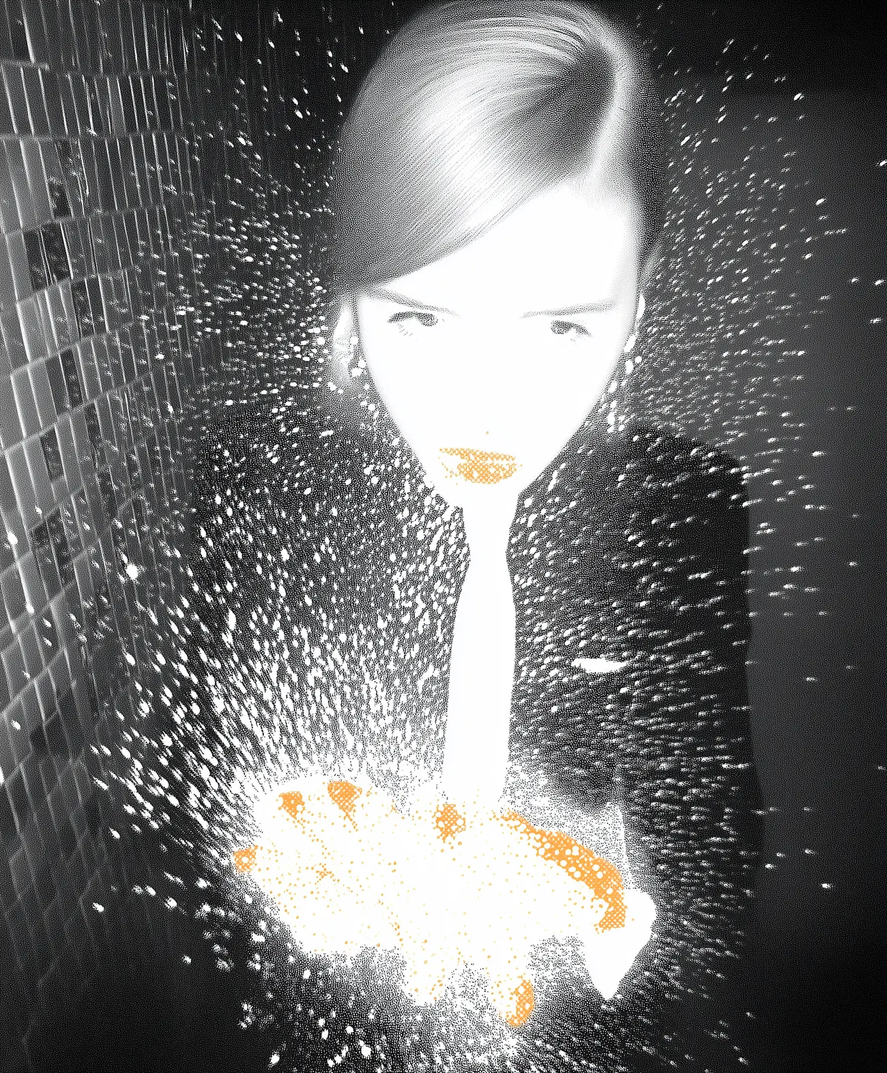
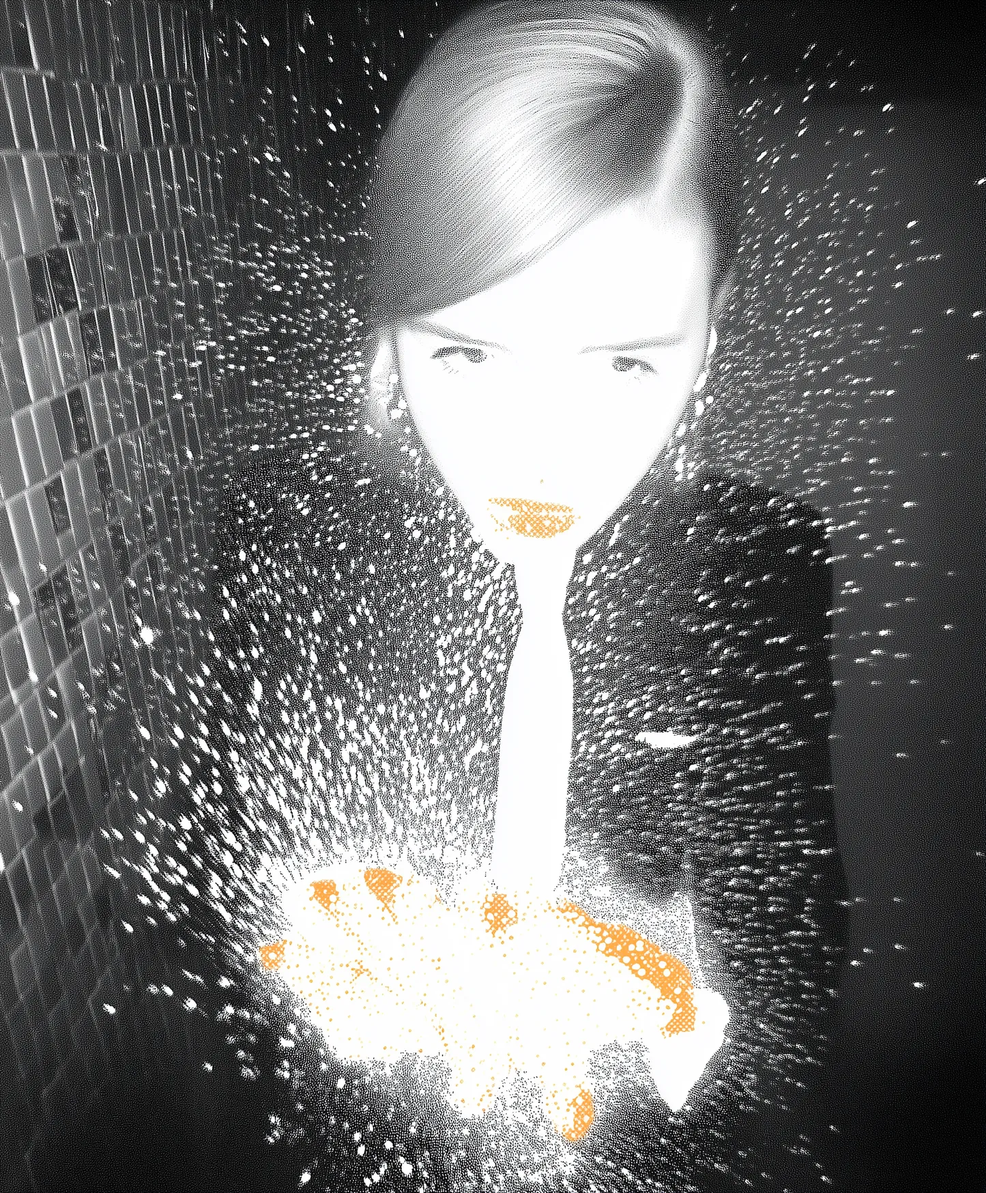
Doc pictures as web copies under 1 MB; masters stay local
The doc's 8 large originals (43 MB) leave git. Seven come back as WebP sized to how large each one
shows (twice its box on a 1440 px screen, or its printed box at 300 dpi), 1.4 MB in all; feed1.png
was unused. documents/web_copies.py holds the rule and remakes them from source/doc_masters/,
which is local only. The hero is now 1445 px wide (was 1300), still under 1 MB.

diff --git a/documents/Vanitas Veritas - Web.dc.html b/documents/Vanitas Veritas - Web.dc.html
@@ -169,7 +169,7 @@
 
   <!-- ============ HERO ============ -->
   <section data-screen-label="Hero" style="position:relative; height:100vh; min-height:640px; overflow:hidden;">
-    <img src="assets/self_portrait.png" alt="self-portrait" style="position:absolute; inset:0; width:100%; height:100%; object-fit:cover; object-position:50% 30%;">
+    <img src="assets/self_portrait.webp" alt="self-portrait" style="position:absolute; inset:0; width:100%; height:100%; object-fit:cover; object-position:50% 30%;">
     <div style="position:absolute; inset:0; background:linear-gradient(180deg, rgba(8,7,6,.62) 0%, rgba(8,7,6,.34) 38%, rgba(8,7,6,.55) 70%, rgba(8,7,6,.96) 100%);"></div>
     <div style="position:absolute; inset:0; box-shadow:inset 0 0 220px 50px rgba(0,0,0,.6);"></div>
     <!-- homo bulla: gold bubbles rise from the gold in the hands (gold_bubbles.js) -->
@@ -219,7 +219,7 @@
           <div class="vv-vanitas" style="position:absolute; inset:0; transform:translateX(-150px);">
           <!-- print (the mirror), to scale -->
           <div style="position:absolute; left:352px; top:26px; width:130px; height:156px; border:1px solid rgba(236,231,221,.42); overflow:hidden; background:#26292b; box-shadow:0 7px 22px rgba(0,0,0,.55);">
-            <img src="assets/self_h.png" style="position:absolute; inset:0; width:100%; height:100%; object-fit:cover; opacity:.85; object-position:50% 26%;">
+            <img src="assets/self_h.webp" style="position:absolute; inset:0; width:100%; height:100%; object-fit:cover; opacity:.85; object-position:50% 26%;">
             <div style="position:absolute; inset:0; background:linear-gradient(122deg, rgba(235,238,240,.5) 0%, rgba(150,154,157,.06) 32%, rgba(216,220,223,.3) 55%, rgba(70,74,77,.12) 100%);"></div>
             <div style="position:absolute; top:-26px; left:24px; width:28px; height:214px; background:rgba(255,255,255,.2); transform:rotate(18deg); filter:blur(4px);"></div>
           </div>
@@ -348,7 +348,7 @@
       </div>
       <div class="vv-steps">
       
-      <div data-reveal class="vv-row vv-loop vv-in"><div class="vv-loc"><svg viewBox="0 0 64 50" width="64" height="50" aria-hidden="true" style="display:block; overflow:visible;"><rect x="3" y="18" width="12" height="14" rx="1.5" fill="#F0ECE4"/><path d="M17 25 h8 m-3 -3 l3 3 l-3 3" fill="none" stroke="#F0ECE4" stroke-width="1.4"/><rect x="27" y="21" width="10" height="8" rx="1.5" fill="none" stroke="#F0ECE4" stroke-width="1.4"/><path d="M39 25 h8 m-3 -3 l3 3 l-3 3" fill="none" stroke="#5E5950" stroke-width="1.4"/><circle cx="52" cy="14" r="2.2" fill="#5E5950"/><circle cx="59" cy="20" r="2.2" fill="#5E5950"/><circle cx="52" cy="25" r="2.2" fill="#5E5950"/><circle cx="59" cy="31" r="2.2" fill="#5E5950"/><circle cx="52" cy="36" r="2.2" fill="#5E5950"/></svg></div><div class="vv-body"><div style="display:flex; align-items:baseline; gap:12px;"><span style="font-family:'Bricolage Grotesque',sans-serif; font-weight:600; font-size:34px; line-height:1; color:#5E5950;">01</span><span style="font-family:'Bricolage Grotesque',sans-serif; font-weight:600; font-size:26px; line-height:1.1; color:#F0ECE4;">genre</span></div><div style="margin-top:8px; font-family:'Space Grotesk',sans-serif; font-size:14px; line-height:1.5; color:#8A8378;">Midjourney <span data-gloss="sref" style="border-bottom:1px dotted rgba(236,231,221,.45);">style reference</span>, made by hand from vanitas paintings, 1630 to now</div><div class="vv-media"><div class="vv-six" style="display:grid; grid-template-columns:repeat(6,minmax(0,1fr)); gap:14px 8px;"><figure style="margin:0;"><div style="aspect-ratio:4/3; overflow:hidden; background:#000;"><img loading="lazy" src="assets/ref1_pereda.jpg" data-lbgroup="ref" data-lbitem="assets/ref1_pereda.jpg" data-cap="Antonio de Pereda, Allegory of Vanity, c.1636, KHM Vienna" style="width:100%;height:100%;object-fit:cover;"></div><figcaption style="margin-top:6px; font-family:'Space Grotesk',sans-serif; font-size:11.5px; line-height:1.35; color:#8A8378;"><span style="color:#ECE7DD;">Allegory of Vanity</span><br>Antonio de Pereda, c.1636</figcaption></figure><figure style="margin:0;"><div style="aspect-ratio:4/3; overflow:hidden; background:#000;"><img loading="lazy" src="assets/ref2_steenwijck.jpg" data-lbgroup="ref" data-lbitem="assets/ref2_steenwijck.jpg" data-cap="Harmen Steenwijck, Allegory of the Vanities of Human Life, c.1640, National Gallery" style="width:100%;height:100%;object-fit:cover;"></div><figcaption style="margin-top:6px; font-family:'Space Grotesk',sans-serif; font-size:11.5px; line-height:1.35; color:#8A8378;"><span style="color:#ECE7DD;">Allegory of the Vanities of Human Life</span><br>Harmen Steenwijck, c.1640</figcaption></figure><figure style="margin:0;"><div style="aspect-ratio:4/3; overflow:hidden; background:#000;"><img loading="lazy" src="assets/ref3_oosterwijck.jpg" data-lbgroup="ref" data-lbitem="assets/ref3_oosterwijck.jpg" data-cap="Maria van Oosterwijck, Vanitas Still Life, c. 1675, Rijksmuseum" style="width:100%;height:100%;object-fit:cover; object-position:center 35%;"></div><figcaption style="margin-top:6px; font-family:'Space Grotesk',sans-serif; font-size:11.5px; line-height:1.35; color:#8A8378;"><span style="color:#ECE7DD;">Vanitas Still Life</span><br>Maria van Oosterwijck, c.&nbsp;1675</figcaption></figure><figure style="margin:0;"><div style="aspect-ratio:4/3; overflow:hidden; background:#000;"><img loading="lazy" src="assets/ref4_obelisk.png" data-lbgroup="ref" data-lbitem="assets/ref4_obelisk.png" data-cap="Pieter Claesz, Vanitas Still Life (detail), 1630, Mauritshuis" style="width:100%;height:100%;object-fit:cover;"></div><figcaption style="margin-top:6px; font-family:'Space Grotesk',sans-serif; font-size:11.5px; line-height:1.35; color:#8A8378;"><span style="color:#ECE7DD;">Vanitas Still Life (detail)</span><br>Pieter Claesz, 1630</figcaption></figure><figure style="margin:0;"><div style="aspect-ratio:4/3; overflow:hidden; background:#000;"><img loading="lazy" src="assets/ref5_russo.jpg" data-lbgroup="ref" data-lbitem="assets/ref5_russo.jpg" data-cap="Carlo Russo, Vanitas Still Life, contemporary, &copy; the artist" style="width:100%;height:100%;object-fit:cover;"></div><figcaption style="margin-top:6px; font-family:'Space Grotesk',sans-serif; font-size:11.5px; line-height:1.35; color:#8A8378;"><span style="color:#ECE7DD;">Vanitas Still Life</span><br>Carlo Russo, contemporary</figcaption></figure><figure style="margin:0;"><div style="aspect-ratio:4/3; overflow:hidden; background:#000;"><img loading="lazy" src="assets/ref6_misc.jpg" data-lbgroup="ref" data-lbitem="assets/ref6_misc.jpg" data-cap="Dutch School, Vanitas Still Life, dated 1650" style="width:100%;height:100%;object-fit:cover;"></div><figcaption style="margin-top:6px; font-family:'Space Grotesk',sans-serif; font-size:11.5px; line-height:1.35; color:#8A8378;"><span style="color:#ECE7DD;">Vanitas Still Life</span><br>Dutch School, 1650</figcaption></figure></div><div class="vv-why"><div class="vv-whytext">genre says it already: shiny, then gone, 400 years before any model.</div></div></div></div></div>
+      <div data-reveal class="vv-row vv-loop vv-in"><div class="vv-loc"><svg viewBox="0 0 64 50" width="64" height="50" aria-hidden="true" style="display:block; overflow:visible;"><rect x="3" y="18" width="12" height="14" rx="1.5" fill="#F0ECE4"/><path d="M17 25 h8 m-3 -3 l3 3 l-3 3" fill="none" stroke="#F0ECE4" stroke-width="1.4"/><rect x="27" y="21" width="10" height="8" rx="1.5" fill="none" stroke="#F0ECE4" stroke-width="1.4"/><path d="M39 25 h8 m-3 -3 l3 3 l-3 3" fill="none" stroke="#5E5950" stroke-width="1.4"/><circle cx="52" cy="14" r="2.2" fill="#5E5950"/><circle cx="59" cy="20" r="2.2" fill="#5E5950"/><circle cx="52" cy="25" r="2.2" fill="#5E5950"/><circle cx="59" cy="31" r="2.2" fill="#5E5950"/><circle cx="52" cy="36" r="2.2" fill="#5E5950"/></svg></div><div class="vv-body"><div style="display:flex; align-items:baseline; gap:12px;"><span style="font-family:'Bricolage Grotesque',sans-serif; font-weight:600; font-size:34px; line-height:1; color:#5E5950;">01</span><span style="font-family:'Bricolage Grotesque',sans-serif; font-weight:600; font-size:26px; line-height:1.1; color:#F0ECE4;">genre</span></div><div style="margin-top:8px; font-family:'Space Grotesk',sans-serif; font-size:14px; line-height:1.5; color:#8A8378;">Midjourney <span data-gloss="sref" style="border-bottom:1px dotted rgba(236,231,221,.45);">style reference</span>, made by hand from vanitas paintings, 1630 to now</div><div class="vv-media"><div class="vv-six" style="display:grid; grid-template-columns:repeat(6,minmax(0,1fr)); gap:14px 8px;"><figure style="margin:0;"><div style="aspect-ratio:4/3; overflow:hidden; background:#000;"><img loading="lazy" src="assets/ref1_pereda.webp" data-lbgroup="ref" data-lbitem="assets/ref1_pereda.webp" data-cap="Antonio de Pereda, Allegory of Vanity, c.1636, KHM Vienna" style="width:100%;height:100%;object-fit:cover;"></div><figcaption style="margin-top:6px; font-family:'Space Grotesk',sans-serif; font-size:11.5px; line-height:1.35; color:#8A8378;"><span style="color:#ECE7DD;">Allegory of Vanity</span><br>Antonio de Pereda, c.1636</figcaption></figure><figure style="margin:0;"><div style="aspect-ratio:4/3; overflow:hidden; background:#000;"><img loading="lazy" src="assets/ref2_steenwijck.jpg" data-lbgroup="ref" data-lbitem="assets/ref2_steenwijck.jpg" data-cap="Harmen Steenwijck, Allegory of the Vanities of Human Life, c.1640, National Gallery" style="width:100%;height:100%;object-fit:cover;"></div><figcaption style="margin-top:6px; font-family:'Space Grotesk',sans-serif; font-size:11.5px; line-height:1.35; color:#8A8378;"><span style="color:#ECE7DD;">Allegory of the Vanities of Human Life</span><br>Harmen Steenwijck, c.1640</figcaption></figure><figure style="margin:0;"><div style="aspect-ratio:4/3; overflow:hidden; background:#000;"><img loading="lazy" src="assets/ref3_oosterwijck.webp" data-lbgroup="ref" data-lbitem="assets/ref3_oosterwijck.webp" data-cap="Maria van Oosterwijck, Vanitas Still Life, c. 1675, Rijksmuseum" style="width:100%;height:100%;object-fit:cover; object-position:center 35%;"></div><figcaption style="margin-top:6px; font-family:'Space Grotesk',sans-serif; font-size:11.5px; line-height:1.35; color:#8A8378;"><span style="color:#ECE7DD;">Vanitas Still Life</span><br>Maria van Oosterwijck, c.&nbsp;1675</figcaption></figure><figure style="margin:0;"><div style="aspect-ratio:4/3; overflow:hidden; background:#000;"><img loading="lazy" src="assets/ref4_obelisk.webp" data-lbgroup="ref" data-lbitem="assets/ref4_obelisk.webp" data-cap="Pieter Claesz, Vanitas Still Life (detail), 1630, Mauritshuis" style="width:100%;height:100%;object-fit:cover;"></div><figcaption style="margin-top:6px; font-family:'Space Grotesk',sans-serif; font-size:11.5px; line-height:1.35; color:#8A8378;"><span style="color:#ECE7DD;">Vanitas Still Life (detail)</span><br>Pieter Claesz, 1630</figcaption></figure><figure style="margin:0;"><div style="aspect-ratio:4/3; overflow:hidden; background:#000;"><img loading="lazy" src="assets/ref5_russo.webp" data-lbgroup="ref" data-lbitem="assets/ref5_russo.webp" data-cap="Carlo Russo, Vanitas Still Life, contemporary, &copy; the artist" style="width:100%;height:100%;object-fit:cover;"></div><figcaption style="margin-top:6px; font-family:'Space Grotesk',sans-serif; font-size:11.5px; line-height:1.35; color:#8A8378;"><span style="color:#ECE7DD;">Vanitas Still Life</span><br>Carlo Russo, contemporary</figcaption></figure><figure style="margin:0;"><div style="aspect-ratio:4/3; overflow:hidden; background:#000;"><img loading="lazy" src="assets/ref6_misc.jpg" data-lbgroup="ref" data-lbitem="assets/ref6_misc.jpg" data-cap="Dutch School, Vanitas Still Life, dated 1650" style="width:100%;height:100%;object-fit:cover;"></div><figcaption style="margin-top:6px; font-family:'Space Grotesk',sans-serif; font-size:11.5px; line-height:1.35; color:#8A8378;"><span style="color:#ECE7DD;">Vanitas Still Life</span><br>Dutch School, 1650</figcaption></figure></div><div class="vv-why"><div class="vv-whytext">genre says it already: shiny, then gone, 400 years before any model.</div></div></div></div></div>
       <div data-reveal class="vv-row vv-loop vv-in"><div class="vv-loc"><svg viewBox="0 0 64 50" width="64" height="50" aria-hidden="true" style="display:block; overflow:visible;"><rect x="3" y="18" width="12" height="14" rx="1.5" fill="#5E5950"/><path d="M17 25 h8 m-3 -3 l3 3 l-3 3" fill="none" stroke="#5E5950" stroke-width="1.4"/><rect x="27" y="21" width="10" height="8" rx="1.5" fill="none" stroke="#F0ECE4" stroke-width="1.4"/><path d="M39 25 h8 m-3 -3 l3 3 l-3 3" fill="none" stroke="#F0ECE4" stroke-width="1.4"/><circle cx="52" cy="14" r="2.2" fill="#F0ECE4"/><circle cx="59" cy="20" r="2.2" fill="#F0ECE4"/><circle cx="52" cy="25" r="2.2" fill="#F0ECE4"/><circle cx="59" cy="31" r="2.2" fill="#F0ECE4"/><circle cx="52" cy="36" r="2.2" fill="#F0ECE4"/></svg></div><div class="vv-body"><div style="display:flex; align-items:baseline; gap:12px;"><span style="font-family:'Bricolage Grotesque',sans-serif; font-weight:600; font-size:34px; line-height:1; color:#5E5950;">02</span><span style="font-family:'Bricolage Grotesque',sans-serif; font-weight:600; font-size:26px; line-height:1.1; color:#F0ECE4;">taste</span></div><div style="margin-top:8px; font-family:'Space Grotesk',sans-serif; font-size:14px; line-height:1.5; color:#8A8378;">Midjourney, picked by hand</div><div class="vv-code" style="margin-top:10px; display:flex; flex-wrap:wrap; align-items:center; gap:6px 10px; font-family:ui-monospace,'SF Mono',Menlo,monospace; font-size:11.5px; color:#B4AEA4;"><svg viewBox="0 0 16 16" width="14" height="14" aria-label="code" style="flex:0 0 auto; color:#8A8378;"><path d="M5.5 4 L1.5 8 L5.5 12 M10.5 4 L14.5 8 L10.5 12" fill="none" stroke="currentColor" stroke-width="1.5" stroke-linecap="round" stroke-linejoin="round"/></svg><span style="color:#F0ECE4; font-weight:600;">Midjourney</span><span aria-hidden="true" style="width:1px; height:14px; background:rgba(236,231,221,.2);"></span><span title="how far apart the pictures in one grid may be" style="border:1px dotted rgba(236,231,221,.3); border-radius:4px; padding:1px 6px; white-space:nowrap; text-decoration:none; cursor:help;"><span style="color:#8A8378;">--chaos</span> <span style="color:#D2914F;">100</span></span><span title="how strongly its aesthetic and the style code lead" style="border:1px dotted rgba(236,231,221,.3); border-radius:4px; padding:1px 6px; white-space:nowrap; text-decoration:none; cursor:help;"><span style="color:#8A8378;">--stylize</span> <span style="color:#D2914F;">1000</span></span><span title="pictures chosen by hand; sink.py reads them as TASTE" style="border:1px dotted rgba(236,231,221,.3); border-radius:4px; padding:1px 6px; white-space:nowrap; text-decoration:none; cursor:help;"><span style="color:#8A8378;">kept</span> <span style="color:#D2914F;">8</span></span></div><div class="vv-media"><code style="display:block; font-family:ui-monospace,'SF Mono',Menlo,monospace; font-size:11.5px; line-height:1.6; color:#E4DFD2; background:#131210; border-left:2px solid rgba(236,231,221,.3); padding:9px 12px; overflow-wrap:break-word; user-select:all;">vanitas [flower, skull, soap bubble] --chaos 100 --ar 4:3 --sref https://s.mj.run/wu5Pv45blp4 --profile f5vl77o --stylize 1000 --hd --v 8.1</code><div style="height:10px;"></div><div class="vv-eight" style="display:grid; grid-template-columns:repeat(8,minmax(0,1fr)); gap:6px;"><div style="position:relative; aspect-ratio:4/3; overflow:hidden; background:#000; outline:2px dashed #E4DFD2; outline-offset:-2px;"><img src="assets/mood1.webp" loading="lazy" data-lbgroup="feed" data-lbitem="assets/mood1.webp" data-cap="Moodboard 01 / 08" style="width:100%;height:100%;object-fit:cover;"><span style="position:absolute; left:5px; top:4px; font-family:'Space Grotesk',sans-serif; font-size:9px; font-weight:600; color:#F0ECE4; background:rgba(11,10,9,.55); padding:1px 5px; border-radius:3px;">01</span></div><div style="position:relative; aspect-ratio:4/3; overflow:hidden; background:#000;"><img src="assets/mood2.webp" loading="lazy" data-lbgroup="feed" data-lbitem="assets/mood2.webp" data-cap="Moodboard 02 / 08" style="width:100%;height:100%;object-fit:cover;"></div><div style="position:relative; aspect-ratio:4/3; overflow:hidden; background:#000;"><img src="assets/mood3.webp" loading="lazy" data-lbgroup="feed" data-lbitem="assets/mood3.webp" data-cap="Moodboard 03 / 08" style="width:100%;height:100%;object-fit:cover;"></div><div style="position:relative; aspect-ratio:4/3; overflow:hidden; background:#000;"><img src="assets/mood4.webp" loading="lazy" data-lbgroup="feed" data-lbitem="assets/mood4.webp" data-cap="Moodboard 04 / 08" style="width:100%;height:100%;object-fit:cover;"></div><div style="position:relative; aspect-ratio:4/3; overflow:hidden; background:#000;"><img src="assets/mood5.webp" loading="lazy" data-lbgroup="feed" data-lbitem="assets/mood5.webp" data-cap="Moodboard 05 / 08" style="width:100%;height:100%;object-fit:cover;"></div><div style="position:relative; aspect-ratio:4/3; overflow:hidden; background:#000;"><img src="assets/mood6.webp" loading="lazy" data-lbgroup="feed" data-lbitem="assets/mood6.webp" data-cap="Moodboard 06 / 08" style="width:100%;height:100%;object-fit:cover;"></div><div style="position:relative; aspect-ratio:4/3; overflow:hidden; background:#000;"><img src="assets/mood7.webp" loading="lazy" data-lbgroup="feed" data-lbitem="assets/mood7.webp" data-cap="Moodboard 07 / 08" style="width:100%;height:100%;object-fit:cover;"></div><div style="position:relative; aspect-ratio:4/3; overflow:hidden; background:#000;"><img src="assets/mood8.webp" loading="lazy" data-lbgroup="feed" data-lbitem="assets/mood8.webp" data-cap="Moodboard 08 / 08" style="width:100%;height:100%;object-fit:cover;"></div></div><div class="vv-why"><div class="vv-whytext">never automated: taste stays human, and every dream leans toward one of these.</div></div></div></div></div>
       
       <div data-reveal class="vv-row vv-loop"><div class="vv-loc"><svg viewBox="0 0 64 50" width="64" height="50" aria-hidden="true" style="display:block; overflow:visible;"><ellipse cx="32" cy="25" rx="24" ry="18" fill="none" stroke="rgba(236,231,221,.3)" stroke-width="1" stroke-dasharray="2 3"/><circle cx="32.0" cy="7.0" r="4.2" fill="#F0ECE4"/><circle cx="54.8" cy="19.4" r="2.4" fill="#5E5950"/><circle cx="46.1" cy="39.6" r="2.4" fill="#5E5950"/><circle cx="17.9" cy="39.6" r="2.4" fill="#5E5950"/><circle cx="9.2" cy="19.4" r="2.4" fill="#5E5950"/></svg></div><div class="vv-body"><div style="display:flex; align-items:baseline; gap:12px;"><span style="font-family:'Bricolage Grotesque',sans-serif; font-weight:600; font-size:34px; line-height:1; color:#5E5950;">03</span><span style="font-family:'Bricolage Grotesque',sans-serif; font-weight:600; font-size:26px; line-height:1.1; color:#F0ECE4;">prompt</span></div><div style="margin-top:8px; font-family:'Space Grotesk',sans-serif; font-size:14px; line-height:1.5; color:#8A8378;"><span data-gloss="grammar" style="border-bottom:1px dotted rgba(236,231,221,.45);">grammar</span>: prompt <span style="font-family:ui-monospace,'SF Mono',Menlo,monospace; font-size:12.5px;">(a&middot;i + b) mod N</span>, each once, scrambled, never stored</div><div class="vv-code" style="margin-top:10px; display:flex; flex-wrap:wrap; align-items:center; gap:6px 10px; font-family:ui-monospace,'SF Mono',Menlo,monospace; font-size:11.5px; color:#B4AEA4;"><svg viewBox="0 0 16 16" width="14" height="14" aria-label="code" style="flex:0 0 auto; color:#8A8378;"><path d="M5.5 4 L1.5 8 L5.5 12 M10.5 4 L14.5 8 L10.5 12" fill="none" stroke="currentColor" stroke-width="1.5" stroke-linecap="round" stroke-linejoin="round"/></svg><a href="https://github.com/kat-titter/vanitas-veritas/blob/ba3e6fc083b991a6519860a68971dba3c5c48ea8/code/sink.py" target="_blank" rel="noopener" style="color:#F0ECE4; font-weight:600; text-decoration:none;">sink.py</a><a href="https://github.com/kat-titter/vanitas-veritas/blob/ba3e6fc083b991a6519860a68971dba3c5c48ea8/code/sink.py#L69" target="_blank" rel="noopener" style="color:#ECE7DD; text-decoration:underline; text-underline-offset:2px;">prompts()</a><span aria-hidden="true" style="width:1px; height:14px; background:rgba(236,231,221,.2);"></span><a href="https://github.com/kat-titter/vanitas-veritas/blob/ba3e6fc083b991a6519860a68971dba3c5c48ea8/code/sink.py#L77" target="_blank" rel="noopener" title="every prompt once, scrambled, nothing stored; a fresh a and b each lap (line 77)" style="border:1px dotted rgba(236,231,221,.3); border-radius:4px; padding:1px 6px; white-space:nowrap; text-decoration:none;"><span style="color:#8A8378;">stride</span> <span style="color:#D2914F;">(a·i + b) mod N</span></a><a href="https://github.com/kat-titter/vanitas-veritas/blob/ba3e6fc083b991a6519860a68971dba3c5c48ea8/code/sink.py#L41" target="_blank" rel="noopener" title="weight of the second prompt blended in: a trace (line 41)" style="border:1px dotted rgba(236,231,221,.3); border-radius:4px; padding:1px 6px; white-space:nowrap; text-decoration:none;"><span style="color:#8A8378;">WORDS_MIX</span> <span style="color:#D2914F;">0.08–0.25</span></a></div><div class="vv-media"><div class="vv-gram" style="display:grid; grid-template-columns:minmax(0,1.5fr) minmax(0,1fr); gap:32px; align-items:center;"><div><div style="font-family:ui-monospace,'SF Mono',Menlo,monospace; font-size:15px; line-height:1.9; color:#F0ECE4;">vanitas [<span style="border-bottom:2px solid #8A8378; padding:0 2px;">subject</span>, <span style="border-bottom:2px solid #8A8378; padding:0 2px;">subject</span>, <span style="border-bottom:2px solid #8A8378; padding:0 2px;">subject</span>], <span style="border-bottom:2px solid #8A8378; padding:0 2px;">mood</span> <span style="border-bottom:2px solid #8A8378; padding:0 2px;">light</span></div><div style="margin-top:6px; font-family:'Space Grotesk',sans-serif; font-size:13.5px; color:#B4AEA4;">three of 44 things, always a skull or a soap bubble and a flower or a skull</div></div><div style="padding:10px 0; border-top:1px solid rgba(236,231,221,.12); border-bottom:1px solid rgba(236,231,221,.12);"><div style="display:grid; grid-template-columns:84px 1fr; gap:14px; align-items:baseline; padding:3px 0;"><div style="font-family:ui-monospace,'SF Mono',Menlo,monospace; font-size:15px; color:#F0ECE4; text-align:right;">431</div><div style="font-family:'Space Grotesk',sans-serif; font-size:13.5px; color:#B4AEA4;">sets of three subjects</div></div><div style="display:grid; grid-template-columns:84px 1fr; gap:14px; align-items:baseline; padding:3px 0;"><div style="font-family:ui-monospace,'SF Mono',Menlo,monospace; font-size:15px; color:#F0ECE4; text-align:right;">&times; 6</div><div style="font-family:'Space Grotesk',sans-serif; font-size:13.5px; color:#B4AEA4;">orders</div></div><div style="display:grid; grid-template-columns:84px 1fr; gap:14px; align-items:baseline; padding:3px 0;"><div style="font-family:ui-monospace,'SF Mono',Menlo,monospace; font-size:15px; color:#F0ECE4; text-align:right;">&times; 28</div><div style="font-family:'Space Grotesk',sans-serif; font-size:13.5px; color:#B4AEA4;">moods</div></div><div style="display:grid; grid-template-columns:84px 1fr; gap:14px; align-items:baseline; padding:3px 0;"><div style="font-family:ui-monospace,'SF Mono',Menlo,monospace; font-size:15px; color:#F0ECE4; text-align:right;">&times; 18</div><div style="font-family:'Space Grotesk',sans-serif; font-size:13.5px; color:#B4AEA4;">lights, or none</div></div><div style="border-top:1px solid rgba(236,231,221,.12); margin-top:4px; padding-top:4px;"><div style="display:grid; grid-template-columns:84px 1fr; gap:14px; align-items:baseline; padding:3px 0;"><div style="font-family:ui-monospace,'SF Mono',Menlo,monospace; font-size:15px; color:#F0ECE4; text-align:right;">&gt; 1 M</div><div style="font-family:'Space Grotesk',sans-serif; font-size:13.5px; color:#B4AEA4;">prompts</div></div><div style="display:grid; grid-template-columns:84px 1fr; gap:14px; align-items:baseline; padding:3px 0;"><div style="font-family:ui-monospace,'SF Mono',Menlo,monospace; font-size:15px; color:#F0ECE4; text-align:right;">&infin;</div><div style="font-family:'Space Grotesk',sans-serif; font-size:13.5px; color:#B4AEA4;">blends of two, at any weight</div></div></div></div></div><div style="margin-top:18px; display:grid; grid-template-columns:auto 1fr; gap:6px 12px; align-items:baseline;"><span style="font-family:'Space Grotesk',sans-serif; font-size:10px; font-weight:600; letter-spacing:.14em; text-transform:uppercase; color:#CFC9BE;">dream A</span><span style="font-family:ui-monospace,'SF Mono',Menlo,monospace; font-size:13px; color:#CFC9BE;">vanitas [a wilting tulip, skull, daisy], dissolving into light in lamplight</span><span style="font-family:'Space Grotesk',sans-serif; font-size:10px; font-weight:600; letter-spacing:.14em; text-transform:uppercase; color:#D2914F;">dream B</span><span style="font-family:ui-monospace,'SF Mono',Menlo,monospace; font-size:13px; color:#D2914F;">vanitas [a dried rose, flower, soap bubble], cracking open through rain</span></div><div class="vv-why"><div class="vv-whytext">every word stays inside the genre: endless, never a borrowed voice.</div></div></div></div></div>
@@ -395,7 +395,7 @@
       <div data-reveal class="vv-price" style="margin-top:40px; padding:26px 30px; background:#131210; border:1px solid rgba(236,231,221,.08); display:grid; grid-template-columns:minmax(0,1.2fr) minmax(0,1fr); gap:34px; align-items:end;"><div><div style="font-family:'Space Grotesk',sans-serif; font-size:10px; font-weight:520; letter-spacing:.18em; text-transform:uppercase; color:#8A8378; margin-bottom:10px;">List price, from materials up</div><div style="display:flex; justify-content:space-between; gap:16px; padding:3px 0; font-family:'Space Grotesk',sans-serif; font-size:13px; color:#C2BCB1; font-weight:400;"><span>materials: sink, screen, computer, print, frame, switch, camera, mounts</span><span style="font-family:ui-monospace,'SF Mono',Menlo,monospace; font-size:13px;">$3,272</span></div><div style="display:flex; justify-content:space-between; gap:16px; padding:3px 0; font-family:'Space Grotesk',sans-serif; font-size:13px; color:#C2BCB1; font-weight:400;"><span>labour, 146 h &times; $50</span><span style="font-family:ui-monospace,'SF Mono',Menlo,monospace; font-size:13px;">$7,300</span></div><div style="height:1px; background:rgba(236,231,221,.14); margin:5px 0;"></div><div style="display:flex; justify-content:space-between; gap:16px; padding:3px 0; font-family:'Space Grotesk',sans-serif; font-size:13px; color:#ECE7DD; font-weight:600;"><span>artist&rsquo;s share</span><span style="font-family:ui-monospace,'SF Mono',Menlo,monospace; font-size:13px;">$10,572</span></div><div style="display:flex; justify-content:space-between; gap:16px; padding:3px 0; font-family:'Space Grotesk',sans-serif; font-size:13px; color:#C2BCB1; font-weight:400;"><span>&divide; 0.60, as a gallery keeps 40%</span><span style="font-family:ui-monospace,'SF Mono',Menlo,monospace; font-size:13px;">$17,620</span></div><div style="display:flex; justify-content:space-between; gap:16px; padding:3px 0; font-family:'Space Grotesk',sans-serif; font-size:13px; color:#ECE7DD; font-weight:600;"><span>rounded up to end in <span data-gloss="six" style="border-bottom:1px dotted rgba(236,231,221,.45);">666</span>, a memento mori</span><span style="font-family:ui-monospace,'SF Mono',Menlo,monospace; font-size:13px;">$17,666</span></div><div style="margin-top:10px; font-family:'Space Grotesk',sans-serif; font-size:12.5px;"><a href="Vanitas%20Veritas%20-%20Build%20Guide.dc.html" style="color:#ECE7DD; text-decoration:underline; text-underline-offset:2px;">parts, links and hours: build guide &#8599;</a></div></div><div><div style="font-family:'Bricolage Grotesque',sans-serif; font-weight:520; font-size:clamp(34px,5vw,46px); line-height:1; color:#F0ECE4;">$17,666</div><div style="margin-top:6px; font-family:'Space Grotesk',sans-serif; font-size:12px; color:#8A8378;">unique, 1 / 1</div><div style="margin-top:14px; display:flex; height:40px; border-radius:3px; overflow:hidden; font-family:'Space Grotesk',sans-serif; font-size:12px;"><div style="flex:60; background:#CFC9BE; color:#0B0A09; display:flex; flex-direction:column; justify-content:center; padding:0 10px;"><b style="font-weight:600;">artist 60%</b><span>$10,600</span></div><div style="flex:40; background:#3a352d; color:#ECE7DD; display:flex; flex-direction:column; justify-content:center; padding:0 10px;"><b style="font-weight:600;">gallery 40%</b><span>$7,066</span></div></div></div></div>
 
       <div data-reveal style="margin-top:44px; display:flex; align-items:center; gap:20px; flex-wrap:wrap; border-top:1px solid rgba(236,231,221,.1); padding-top:34px;">
-        <div style="width:88px; height:88px; flex:none; border-radius:50%; overflow:hidden; background:#000; border:1px solid rgba(236,231,221,.2);"><img src="assets/artist_h.png" style="width:100%; height:100%; object-fit:cover; object-position:center 30%;"></div>
+        <div style="width:88px; height:88px; flex:none; border-radius:50%; overflow:hidden; background:#000; border:1px solid rgba(236,231,221,.2);"><img src="assets/artist_h.webp" style="width:100%; height:100%; object-fit:cover; object-position:center 30%;"></div>
         <div style="flex:1; min-width:240px;">
           <div style="font-family:'Bricolage Grotesque',sans-serif; font-weight:520; font-size:18px; color:#F0ECE4;">Katherine (Kat) Titterton</div>
           <div style="margin-top:7px; font-size:12.5px; line-height:1.6; color:#A8A298; max-width:560px;">San Francisco based scientist and generative artist. Since 2023 she trains her own diffusion style codes: choosing is the truth.</div>

diff --git a/documents/web_copies.py b/documents/web_copies.py
@@ -1,0 +1,74 @@
+#!/usr/bin/env python3
+"""Make the doc's web copies (WebP, under 1 MB) from the full-size masters kept locally in source/doc_masters/.
+
+Each copy is as wide as its largest showing needs: twice its box on a 1440 px screen, or its printed box at
+300 dpi, never wider than the master. Quality steps down from 90 to 80 to fit under 1 MB; past that the width
+steps down. Boxes were measured in the browser on 2026-11-19 (CSS px, object-fit: cover).
+
+    python3 documents/web_copies.py          # from the repo root; writes documents/assets/NAME.webp
+"""
+import io
+import math
+import os
+
+from PIL import Image
+
+ROOT = os.path.dirname(os.path.dirname(os.path.abspath(__file__)))
+MASTERS = os.path.join(ROOT, "source", "doc_masters")
+ASSETS = os.path.join(ROOT, "documents", "assets")
+LIMIT = 1 << 20                      # 1 MB, the repo's ceiling for one binary
+PRINT_SCALE = 300 / 96               # 300 dpi print from 96 px-per-inch CSS
+PLATE = (227, 151)                   # print plates: three across a Letter page, 3:2
+
+# name: (screen box at 1440 px wide, printed box)
+BOXES = {
+    "artist_h": ((88, 88), (88, 88)),                # colophon portrait, a circle
+    "ref1_pereda": ((102, 77), PLATE),
+    "ref3_oosterwijck": ((102, 77), PLATE),
+    "ref4_obelisk": ((102, 77), PLATE),
+    "ref5_russo": ((102, 77), PLATE),
+    "self_h": ((130, 156), (130, 156)),              # the to-scale figure beside the basin
+    "self_portrait": ((1440, 900), (816, 1056)),     # the hero, full screen and the full-bleed printed cover
+}
+
+
+def cover_width(box, aspect):
+    """Source width an image needs to cover a box without upscaling (object-fit: cover)."""
+    w, h = box
+    return max(w, h * aspect)
+
+
+def target_width(master, screen, printed):
+    aspect = master.width / master.height
+    need = max(2 * cover_width(screen, aspect), PRINT_SCALE * cover_width(printed, aspect))
+    return min(master.width, math.ceil(need))
+
+
+def encode(image, width):
+    """Best WebP of image at width under LIMIT, trying quality 90, 85, 80; None if none fits."""
+    small = image.resize((width, round(image.height * width / image.width)), Image.LANCZOS)
+    for quality in (90, 85, 80):
+        buf = io.BytesIO()
+        small.save(buf, "WEBP", quality=quality, method=6)
+        if buf.tell() < LIMIT:
+            return buf.getvalue(), quality
+    return None
+
+
+def make_copy(name, screen, printed):
+    path = next((os.path.join(MASTERS, name + ext) for ext in (".png", ".jpg") if os.path.exists(os.path.join(MASTERS, name + ext))), None)
+    if not path:
+        raise SystemExit(f"no master for {name} in {MASTERS}")
+    master = Image.open(path).convert("RGB")
+    width = target_width(master, screen, printed)
+    while not (result := encode(master, width)):
+        width = int(width * 0.9)
+    data, quality = result
+    with open(os.path.join(ASSETS, name + ".webp"), "wb") as out:
+        out.write(data)
+    print(f"{name:18} {os.path.getsize(path) // 1024:6} KB -> {len(data) // 1024:4} KB  {width}px wide  q{quality}")
+
+
+if __name__ == "__main__":
+    for name, (screen, printed) in BOXES.items():
+        make_copy(name, screen, printed)

diff --git a/README.md b/README.md
@@ -58,6 +58,7 @@ The moodboard lives in `source/moodboard/` and the Real-ESRGAN weights in `code/
 | [`verse/sync.html`](verse/sync.html) | veritas: one page, WebGL2, no build step |
 | [`verse/blackpaper.html`](verse/blackpaper.html), [`verse/deploy_verse.py`](verse/deploy_verse.py) | the black paper, and the script that publishes it and veritas at their short address |
 | [`documents/`](documents/) | the doc and the build guide, with their pictures |
+| [`documents/web_copies.py`](documents/web_copies.py) | the doc's pictures as web copies under 1 MB, sized to how large each one shows; the full-size masters live in `source/doc_masters/` (local only) |
 
 ## Colophon
 
